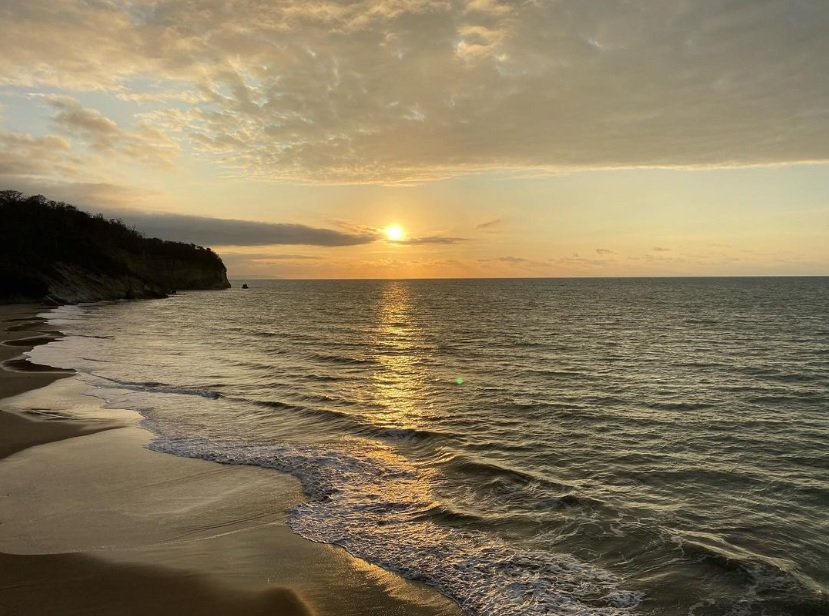
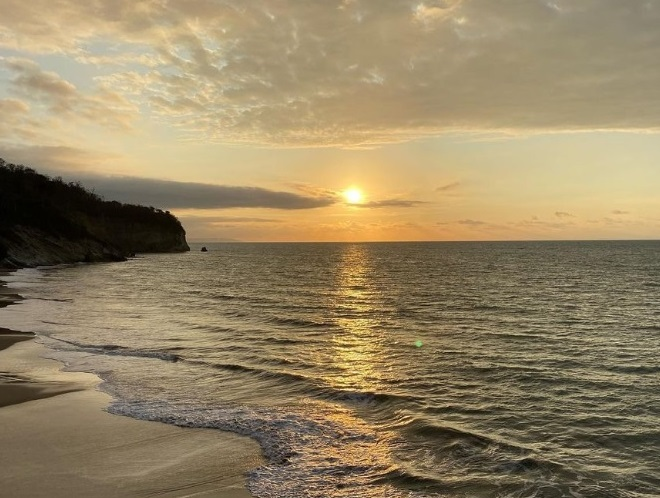
Plantilla1Jordan

diff --git a/index.html b/index.html
@@ -297,9 +297,9 @@
                 </div> <!-- entry -->
 
                 <div class="column entry">
-                    <a href="images/folio/gallery/g-woodcraft.jpg" class="entry__link glightbox" data-glightbox="title: WoodCraft; description: .entry__desc-02">
+                    <a href="images/folio/gallery/mar.jpg" class="entry__link glightbox" data-glightbox="title: WoodCraft; description: .entry__desc-02">
                         <div class="entry__thumb">
-                            <img src="images/folio/woodcraft.jpg" srcset="images/folio/woodcraft.jpg 1x, images/folio/woodcraft@2x.jpg 2x" alt="">
+                            <img src="images/folio/mar.jpg" srcset="images/folio/mar.jpg 1x, images/folio/mas - copia.jpg 2x" alt="">
                         </div>
                         <div class="entry__info">
                             <h4 class="entry__title">WoodCraft</h4>
